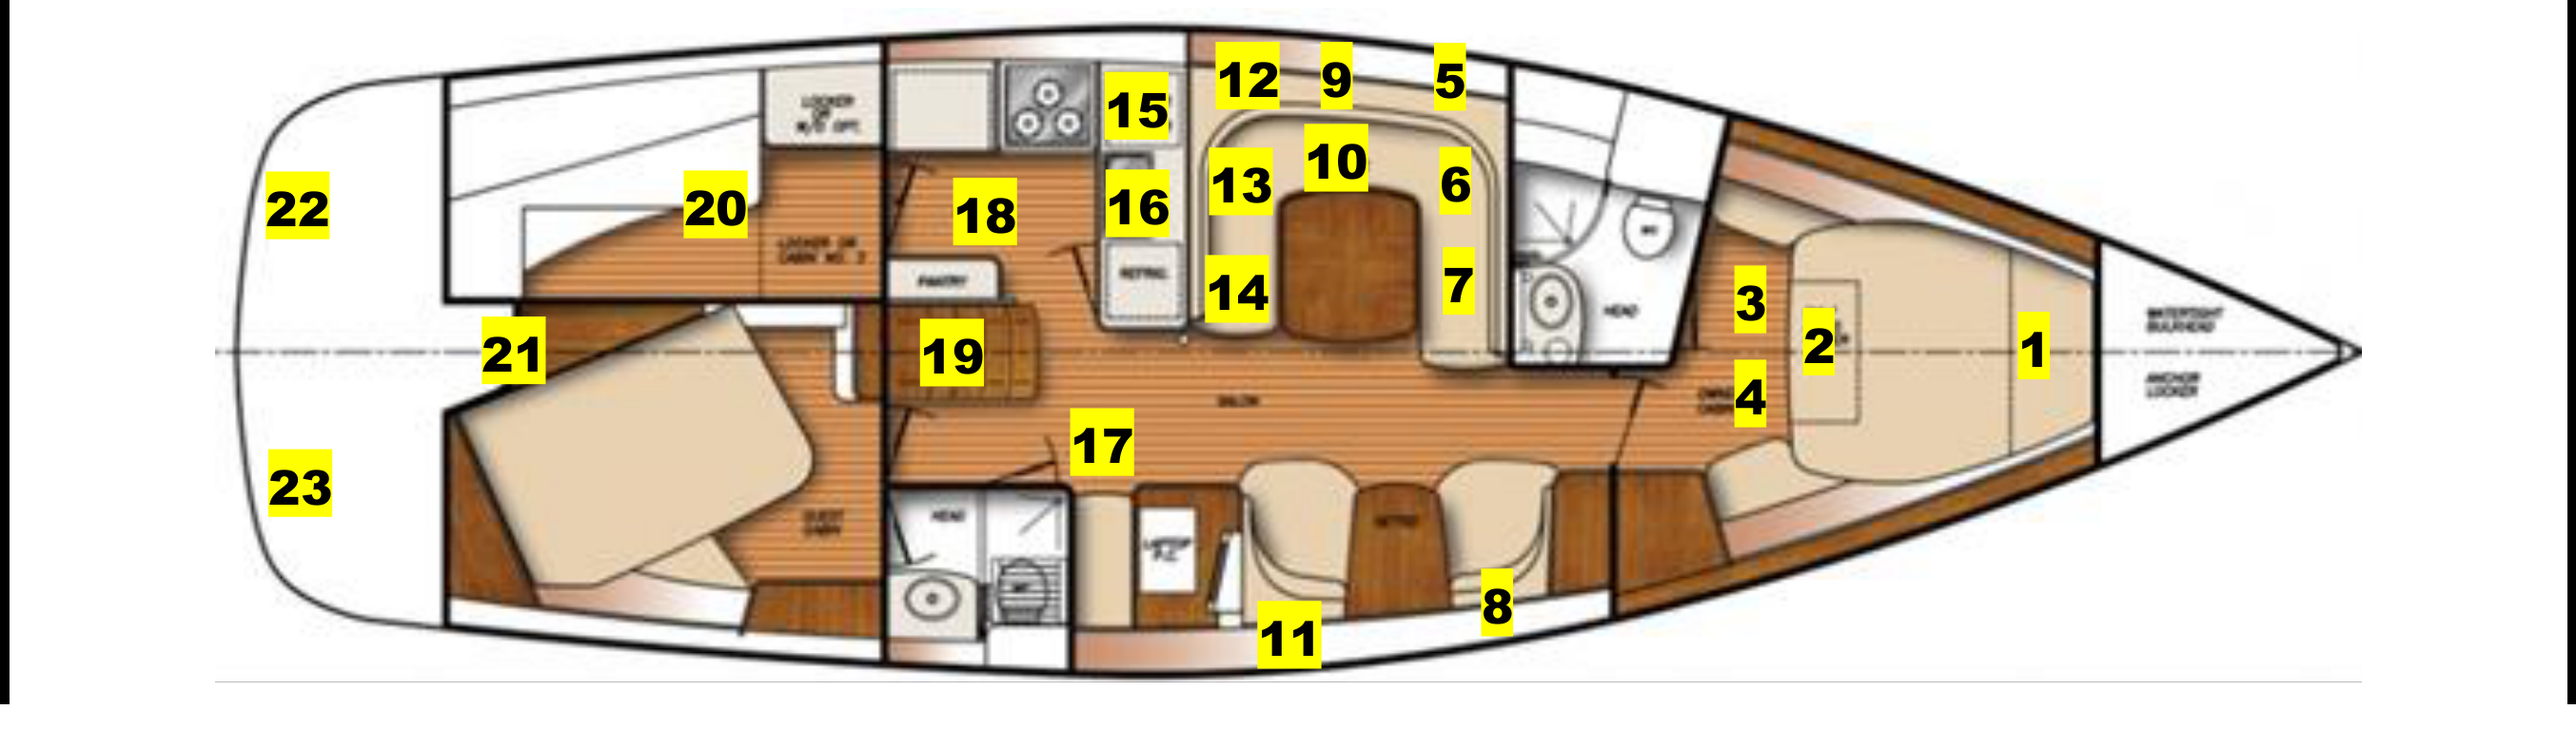
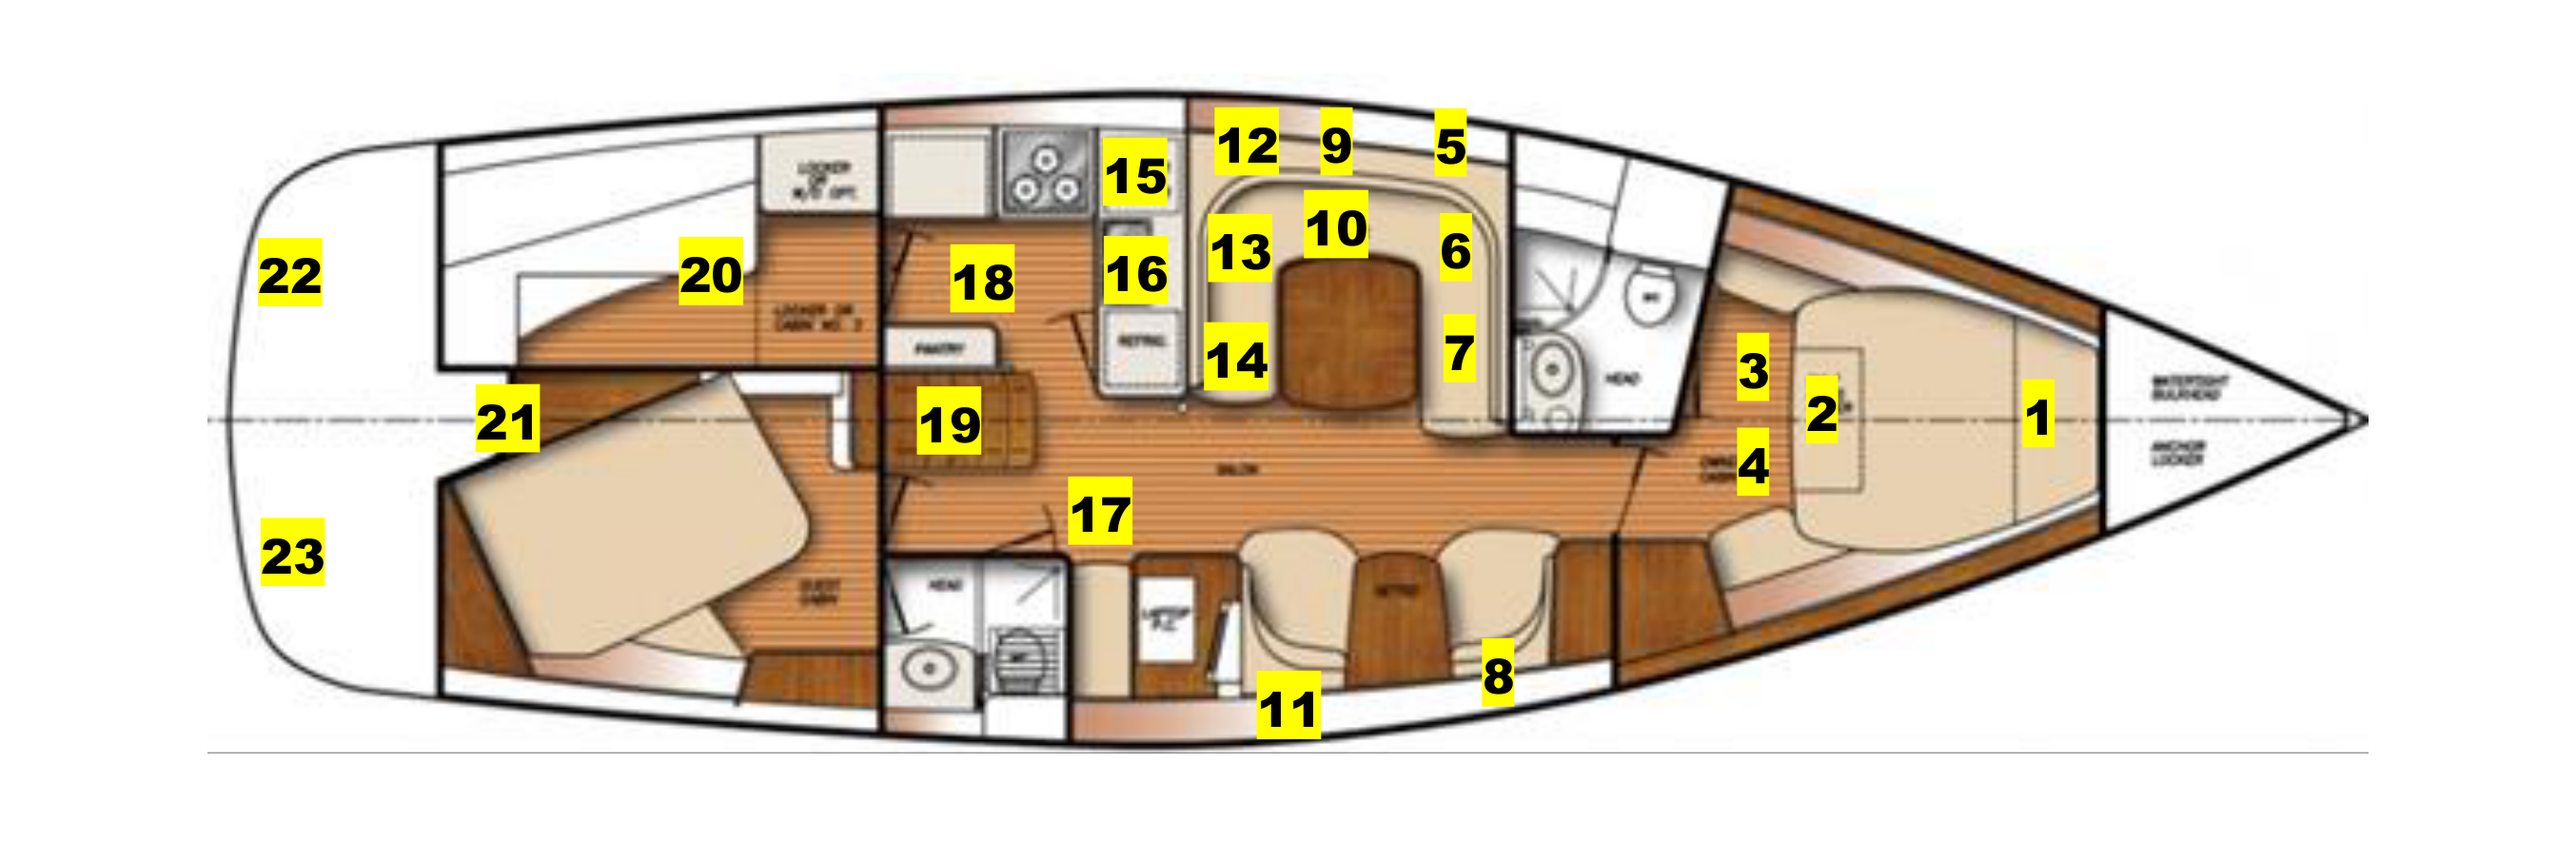
Re-render boat-plan.png from PDF, add compartments 24 & 25
Fresh render of 445 Compartments.pdf at 2707px wide with 75% whitespace crop
(278px top / 340px bottom) → 2707×905. All 23 circle positions recalculated from
PDF text layer. Added compartments 24 and 25 (aft stern starboard/port) to match
updated diagram. Aspect ratio updated to 2707/905.

diff --git a/src/components/BoatDiagram.jsx b/src/components/BoatDiagram.jsx
@@ -1,30 +1,34 @@
 import { COMPARTMENTS } from '../data/compartments'
 
-// Circle positions as percentage of image dimensions (2707 × 767)
+// Circle positions as percentage of image dimensions (2707 × 905)
+// Re-rendered from 445 Compartments.pdf; positions 1-23 from PDF text layer,
+// 24-25 placed in the aft stern area per updated diagram
 const POSITIONS = {
-  1:  { px: 78.9, py: 48.6 },
-  2:  { px: 70.6, py: 48.0 },
-  3:  { px: 67.9, py: 42.2 },
-  4:  { px: 67.9, py: 55.3 },
-  5:  { px: 56.3, py: 11.1 },
-  6:  { px: 56.5, py: 25.6 },
-  7:  { px: 56.6, py: 39.5 },
-  8:  { px: 58.1, py: 84.1 },
-  9:  { px: 51.9, py: 11.1 },
-  10: { px: 51.9, py: 22.5 },
-  11: { px: 50.0, py: 88.8 },
-  12: { px: 48.4, py: 11.1 },
-  13: { px: 48.1, py: 25.7 },
-  14: { px: 48.0, py: 40.6 },
-  15: { px: 44.1, py: 15.3 },
-  16: { px: 44.2, py: 28.6 },
-  17: { px: 42.8, py: 61.9 },
-  18: { px: 38.2, py: 29.8 },
-  19: { px: 36.9, py: 49.5 },
-  20: { px: 27.8, py: 29.0 },
-  21: { px: 19.9, py: 49.1 },
-  22: { px: 11.5, py: 29.0 },
-  23: { px: 11.6, py: 67.4 },
+  1:  { px: 79.2, py: 48.0 },
+  2:  { px: 70.7, py: 47.6 },
+  3:  { px: 68.1, py: 42.6 },
+  4:  { px: 68.1, py: 53.6 },
+  5:  { px: 56.3, py: 16.5 },
+  6:  { px: 56.5, py: 28.7 },
+  7:  { px: 56.7, py: 40.4 },
+  8:  { px: 58.2, py: 78.1 },
+  9:  { px: 51.9, py: 16.4 },
+  10: { px: 51.9, py: 26.0 },
+  11: { px: 50.0, py: 81.9 },
+  12: { px: 48.4, py: 16.4 },
+  13: { px: 48.2, py: 28.8 },
+  14: { px: 48.0, py: 41.4 },
+  15: { px: 44.1, py: 19.9 },
+  16: { px: 44.1, py: 31.4 },
+  17: { px: 42.7, py: 59.3 },
+  18: { px: 38.1, py: 32.3 },
+  19: { px: 36.9, py: 48.8 },
+  20: { px: 27.6, py: 31.5 },
+  21: { px: 19.7, py: 48.6 },
+  22: { px: 11.3, py: 31.6 },
+  23: { px: 11.4, py: 64.1 },
+  24: { px:  7.5, py: 28.0 },
+  25: { px:  7.5, py: 57.0 },
 }
 
 function itemCount(inventory, id) {
@@ -41,7 +45,7 @@ export default function BoatDiagram({ inventory, onSelect, selected, getLabel })
             position: 'relative',
             width: '100%',
             minWidth: 1000,
-            aspectRatio: '2707 / 767',
+            aspectRatio: '2707 / 905',
           }}
         >
           <img

diff --git a/src/data/compartments.js b/src/data/compartments.js
@@ -1,4 +1,4 @@
-// Catalina 445 — 23 numbered compartments
+// Catalina 445 — 25 numbered compartments
 // cx/cy = circle center in SVG viewBox "0 0 920 360"
 // Stern=left, Bow=right, Starboard=top, Port=bottom
 
@@ -26,4 +26,6 @@ export const COMPARTMENTS = [
   { num: 21, id: 'comp-21', name: 'Guest Cabin',                   cx: 215, cy: 225, icon: '🛏' },
   { num: 22, id: 'comp-22', name: 'Stern Starboard Locker',        cx: 90,  cy: 160, icon: '🔧' },
   { num: 23, id: 'comp-23', name: 'Stern Port Locker',             cx: 90,  cy: 205, icon: '🔧' },
+  { num: 24, id: 'comp-24', name: 'Aft Starboard Quarter',         cx: 55,  cy: 160, icon: '📦' },
+  { num: 25, id: 'comp-25', name: 'Aft Port Quarter',              cx: 55,  cy: 205, icon: '📦' },
 ]
